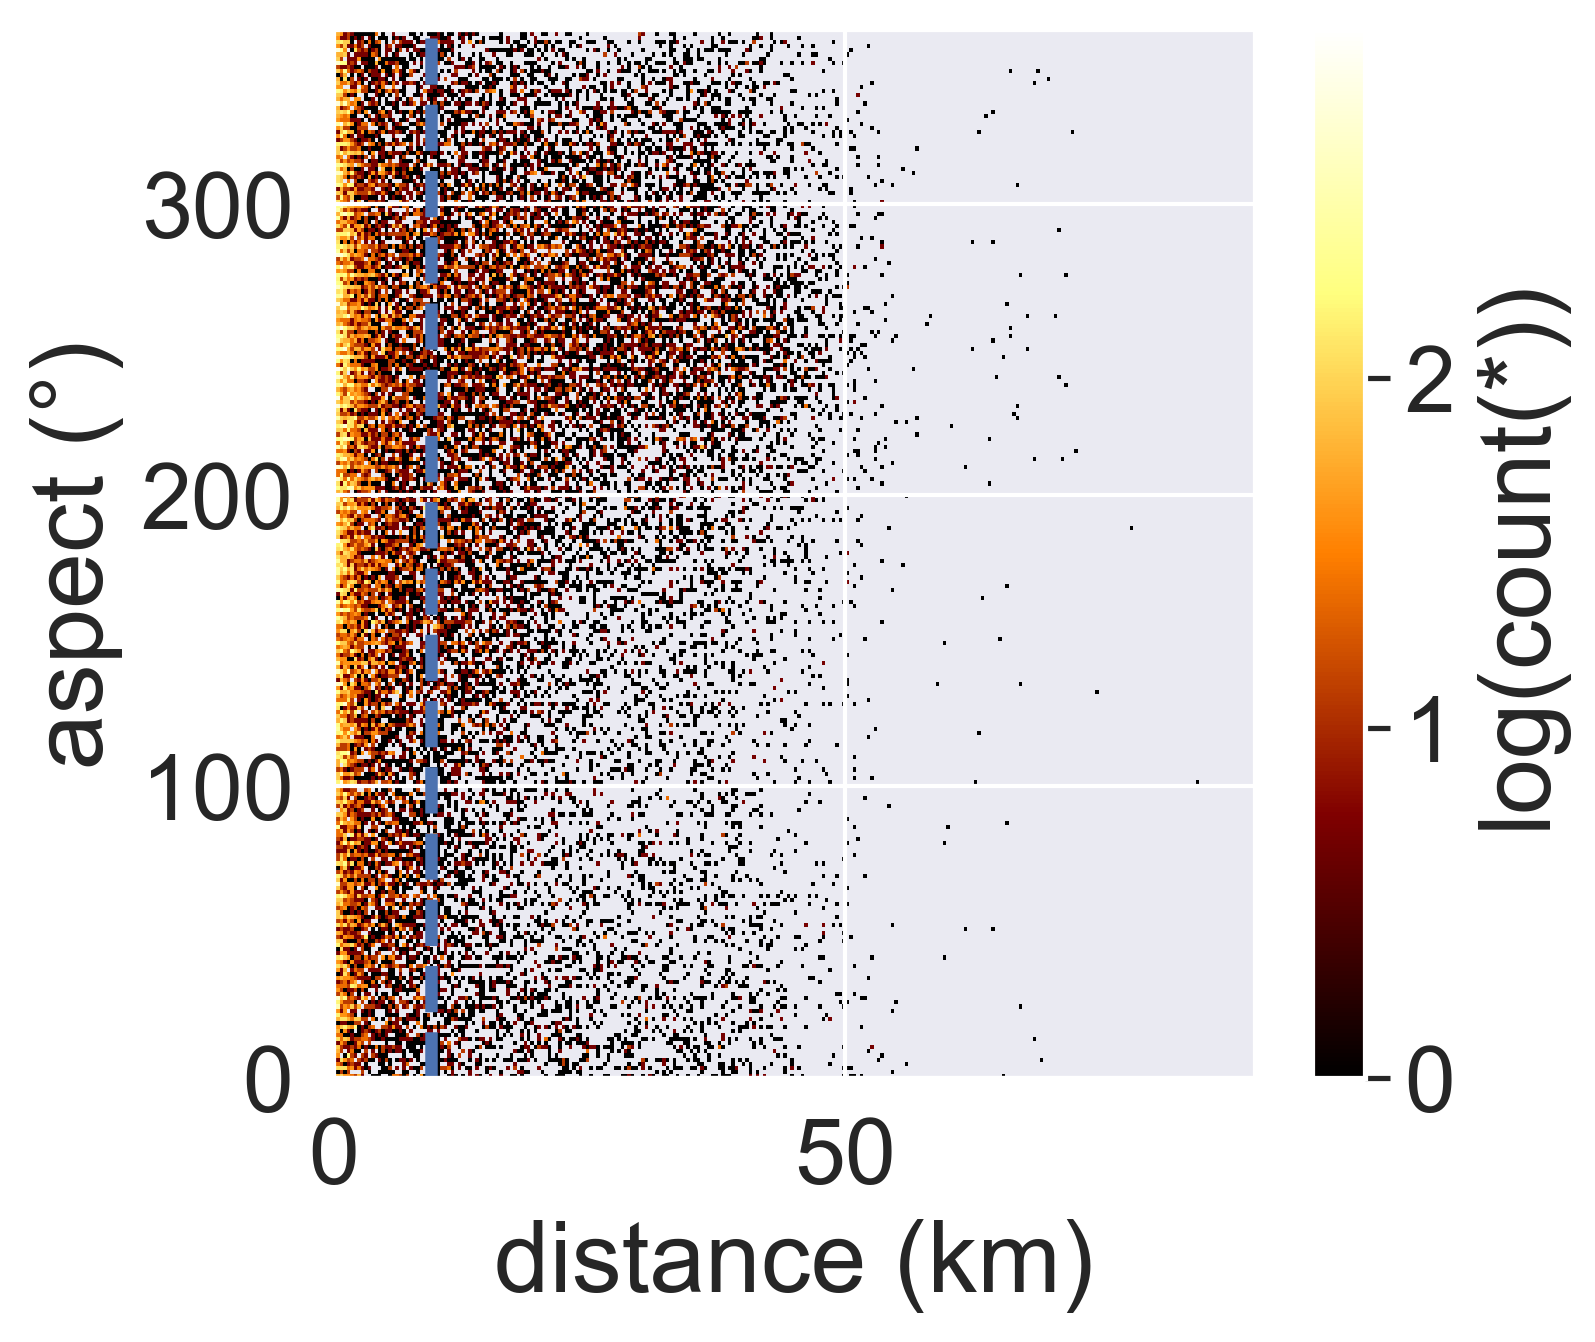
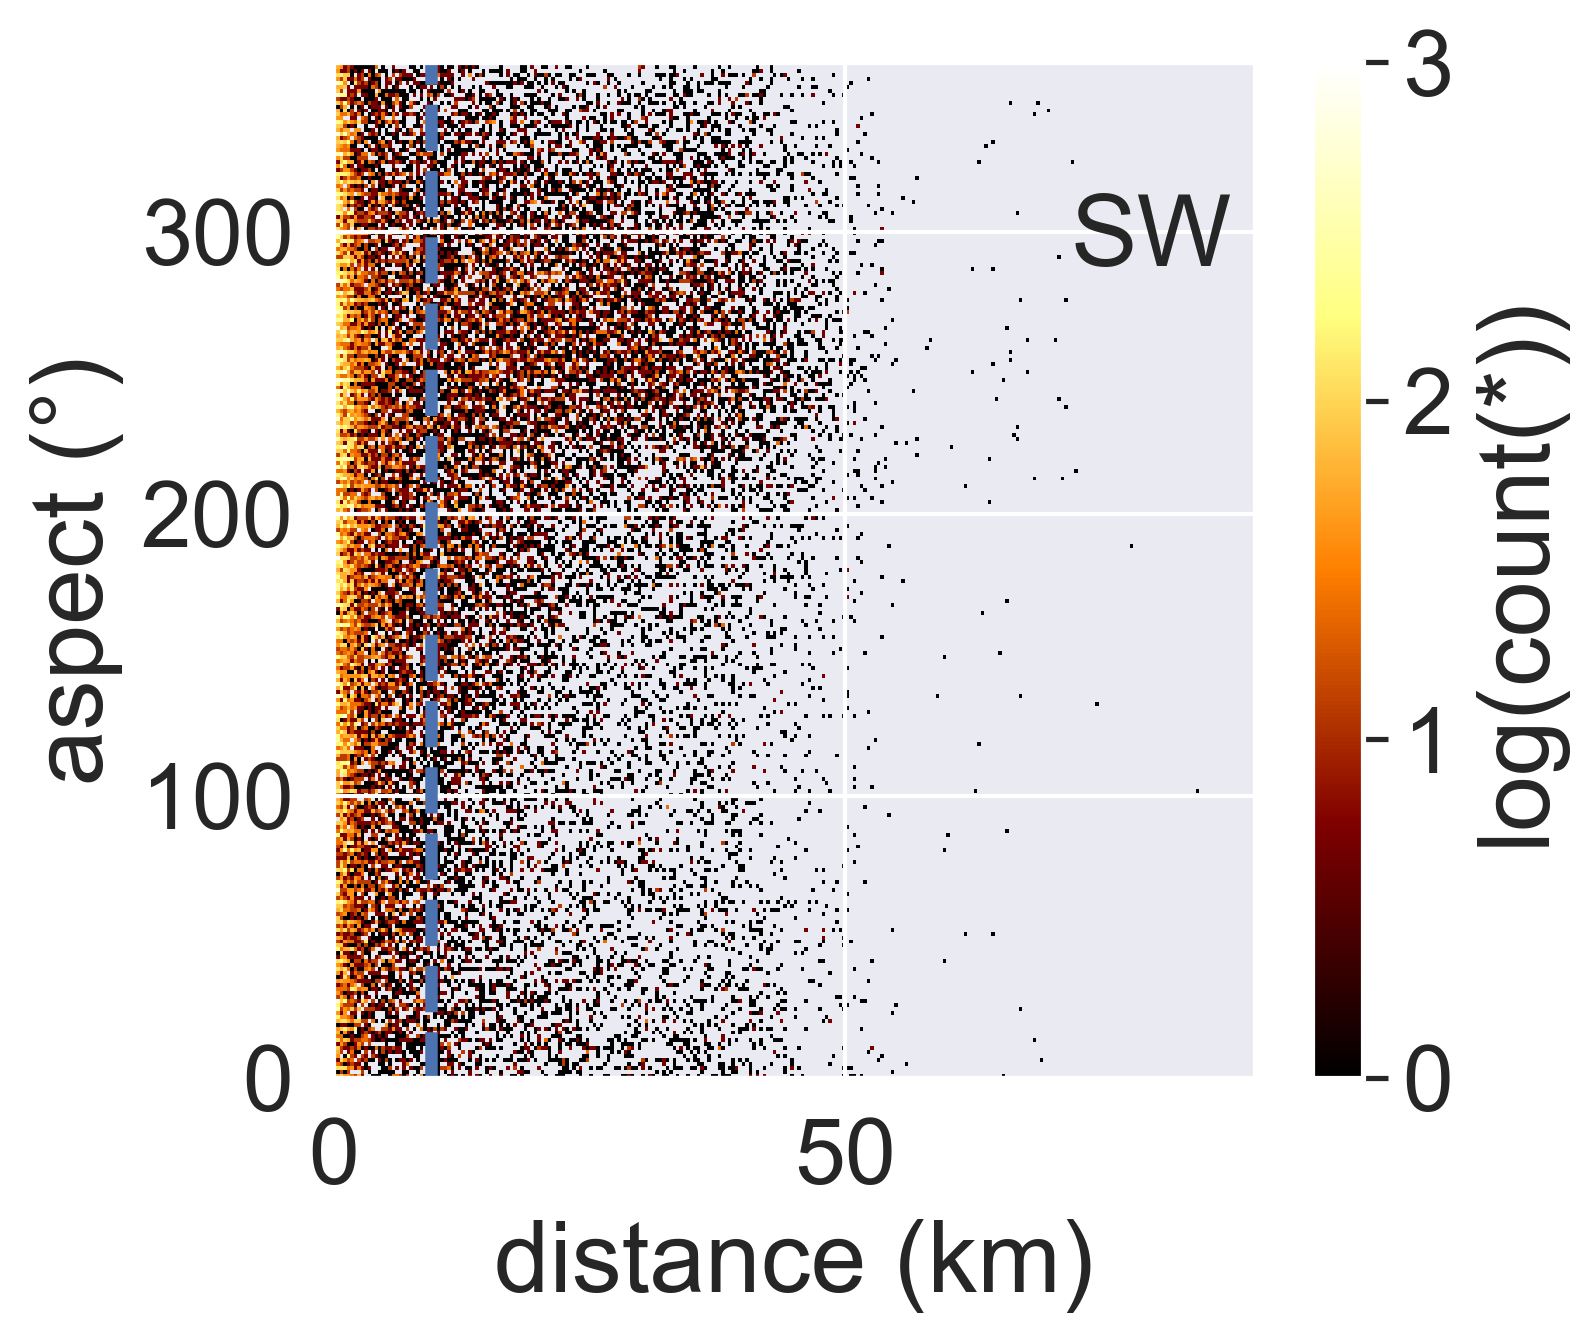
dark ice distance fig

diff --git a/topoanalysis.py b/topoanalysis.py
@@ -160,50 +160,6 @@ fig.savefig("print/basin/box_dura.png", dpi=300, bbox_inches="tight")
 
 
 #%%
-# '''
-# play with dark ice at SW
-# '''
-# df = pd.read_csv("/data/shunan/data/topography/basin/SW_annual.csv")
-# df["distance"] = df.dist/1000
-
-# df = df[df.albedo < 0.45]
-# df["tan"] = df.elevation / df.dist
-# df["arctan"] = np.rad2deg(np.arctan2(df.elevation, df.dist))
-
-# dfvx = vx.from_pandas(df)
-
-# fig, ax = plt.subplots(figsize=(6,5))
-# # ax.annotate("SW", xy=(0.8, 0.8),  xycoords='axes fraction')
-# ax.axvline(9.57041446875, ls='--', linewidth=3)
-# # ax.axhline(673.3710066, ls='--', linewidth=3)
-# plt.xlim(0,90)
-# plt.ylim(0,90)
-# dfvx.viz.heatmap('distance', 'slope', what=np.log(vx.stat.count()), show=True,
-#                  vmin=0, vmax=6, xlabel="distance (km)", ylabel="slope (" + u'\N{DEGREE SIGN}' + ')' )
-# fig.savefig("print/basin/SW_dark_dist_slop.png", dpi=300, bbox_inches="tight")
-
-# fig, ax = plt.subplots(figsize=(6,5))
-# # ax.annotate("SW", xy=(0.8, 0.1),  xycoords='axes fraction')
-# ax.axvline(9.57041446875, ls='--', linewidth=3)
-# # ax.axhline(673.3710066, ls='--', linewidth=3)
-# plt.xlim(0,90)
-# plt.ylim(0,2000)
-# dfvx.viz.heatmap('distance', 'elevation', what=np.log(vx.stat.count()), show=True,
-#                  vmin=0, vmax=4, xlabel="distance (km)", ylabel="elevation (m a.s.l)")
-# fig.savefig("print/basin/SW_dark_dist_elev.png", dpi=300, bbox_inches="tight")
-
-
-# fig, ax = plt.subplots(figsize=(6,5))   
-# ax.axvline(9.57041446875, ls='--', linewidth=3)
-# # ax.annotate("SW", xy=(0.8, 0.8),  xycoords='axes fraction')
-# plt.xlim(0, 90)
-# plt.ylim(0, 360)
-# dfvx.viz.heatmap('distance', 'aspect', what=np.log(vx.stat.count()), show=True,
-#                   xlabel="distance (km)", ylabel="aspect (" + u'\N{DEGREE SIGN}' + ')')
-# fig.savefig("print/basin/SW_dark_dist_aspe.png", dpi=300, bbox_inches="tight")
-
-
-#%%
 '''
 ice at margin and inland comparison (SW)
 '''
@@ -234,29 +190,6 @@ ax[2].set(xlabel="aspect (" + u'\N{DEGREE SIGN}' + ')', ylabel="", yticklabels=[
 ax[2].get_legend().remove()
 ax[2].annotate("c)", xy=(-0.15, 0.9),  xycoords='axes fraction')
 fig.savefig("print/SW_classdist_box.pdf", dpi=300, bbox_inches="tight")
-
-#%%
-'''
-play with dark ice at SE
-'''
-df = pd.read_csv("/data/shunan/data/topography/basin/SE_annual.csv")
-df["distance"] = df.dist/1000
-
-df = df[df.albedo < 0.45]
-df["tan"] = df.elevation / df.dist
-df["arctan"] = np.rad2deg(np.arctan2(df.elevation, df.dist))
-
-dfvx = vx.from_pandas(df)
-
-fig, ax = plt.subplots(figsize=(6,5))
-# ax.annotate("SW", xy=(0.8, 0.1),  xycoords='axes fraction')
-# ax.axvline(9.57041446875, ls='--', linewidth=3)
-# ax.axhline(673.3710066, ls='--', linewidth=3)
-plt.xlim(0,90)
-plt.ylim(0,2000)
-dfvx.viz.heatmap('distance', 'elevation', what=np.log(vx.stat.count()), show=True,
-                 vmin=0, vmax=4, xlabel="distance (km)", ylabel="elevation (m a.s.l)")
-fig.savefig("print/basin/SE_dark_dist_elev.png", dpi=300, bbox_inches="tight")
 
 #%%
 '''
@@ -463,6 +396,95 @@ df.viz.histogram('swdem', label='SW')
 plt.legend()
 ax.set(xlabel="aspect (" + u'\N{DEGREE SIGN}' + ')')
 fig.savefig("print/aspehist.pdf", dpi=300, bbox_inches="tight")
+
+
+
+#%%
+'''
+play with dark ice at SW
+'''
+df = pd.read_csv("/data/shunan/data/topography/basin/SW_annual.csv")
+df["distance"] = df.dist/1000
+
+df = df[df.albedo < 0.45]
+df["tan"] = df.elevation / df.dist
+df["arctan"] = np.rad2deg(np.arctan2(df.elevation, df.dist))
+
+dfvx = vx.from_pandas(df)
+
+fig, ax = plt.subplots(figsize=(6,5))
+ax.annotate("SW", xy=(0.8, 0.8),  xycoords='axes fraction')
+ax.axvline(9.57041446875, ls='--', linewidth=3)
+# ax.axhline(673.3710066, ls='--', linewidth=3)
+plt.xlim(0,90)
+plt.ylim(0,90)
+dfvx.viz.heatmap('distance', 'slope', what=np.log(vx.stat.count()), show=True,
+                 vmin=0, vmax=6, xlabel="distance (km)", ylabel="slope (" + u'\N{DEGREE SIGN}' + ')' )
+fig.savefig("print/basin/SW_dark_dist_slop.png", dpi=300, bbox_inches="tight")
+
+fig, ax = plt.subplots(figsize=(6,5))
+ax.annotate("SW", xy=(0.8, 0.1),  xycoords='axes fraction')
+ax.axvline(9.57041446875, ls='--', linewidth=3)
+# ax.axhline(673.3710066, ls='--', linewidth=3)
+plt.xlim(0,90)
+plt.ylim(0,2000)
+dfvx.viz.heatmap('distance', 'elevation', what=np.log(vx.stat.count()), show=True,
+                 vmin=0, vmax=4, xlabel="distance (km)", ylabel="elevation (m a.s.l)")
+fig.savefig("print/basin/SW_dark_dist_elev.png", dpi=300, bbox_inches="tight")
+
+
+fig, ax = plt.subplots(figsize=(6,5))   
+ax.axvline(9.57041446875, ls='--', linewidth=3)
+ax.annotate("SW", xy=(0.8, 0.8),  xycoords='axes fraction')
+plt.xlim(0, 90)
+plt.ylim(0, 360)
+dfvx.viz.heatmap('distance', 'aspect', what=np.log(vx.stat.count()), show=True,
+                  vmin=0, vmax=3, xlabel="distance (km)", ylabel="aspect (" + u'\N{DEGREE SIGN}' + ')')
+fig.savefig("print/basin/SW_dark_dist_aspe.png", dpi=300, bbox_inches="tight")
+
+#%%
+'''
+play with dark ice at SE
+'''
+df = pd.read_csv("/data/shunan/data/topography/basin/SE_annual.csv")
+df["distance"] = df.dist/1000
+
+df = df[df.albedo < 0.45]
+df["tan"] = df.elevation / df.dist
+df["arctan"] = np.rad2deg(np.arctan2(df.elevation, df.dist))
+
+dfvx = vx.from_pandas(df)
+
+fig, ax = plt.subplots(figsize=(6,5))
+ax.annotate("SE", xy=(0.8, 0.8),  xycoords='axes fraction')
+ax.axvline(2.63818006441, ls='--', linewidth=3)
+# ax.axhline(673.3710066, ls='--', linewidth=3)
+plt.xlim(0,90)
+plt.ylim(0,90)
+dfvx.viz.heatmap('distance', 'slope', what=np.log(vx.stat.count()), show=True,
+                 vmin=0, vmax=6, xlabel="distance (km)", ylabel="slope (" + u'\N{DEGREE SIGN}' + ')' )
+fig.savefig("print/basin/SE_dark_dist_slop.png", dpi=300, bbox_inches="tight")
+
+fig, ax = plt.subplots(figsize=(6,5))
+ax.annotate("SE", xy=(0.8, 0.1),  xycoords='axes fraction')
+ax.axvline(2.63818006441, ls='--', linewidth=3)
+# ax.axhline(673.3710066, ls='--', linewidth=3)
+plt.xlim(0,90)
+plt.ylim(0,2000)
+dfvx.viz.heatmap('distance', 'elevation', what=np.log(vx.stat.count()), show=True,
+                 vmin=0, vmax=4, xlabel="distance (km)", ylabel="elevation (m a.s.l)")
+fig.savefig("print/basin/SE_dark_dist_elev.png", dpi=300, bbox_inches="tight")
+
+
+fig, ax = plt.subplots(figsize=(6,5))   
+ax.axvline(2.63818006441, ls='--', linewidth=3)
+ax.annotate("SE", xy=(0.8, 0.8),  xycoords='axes fraction')
+plt.xlim(0, 90)
+plt.ylim(0, 360)
+dfvx.viz.heatmap('distance', 'aspect', what=np.log(vx.stat.count()), show=True,
+                  vmin=0, vmax=3, xlabel="distance (km)", ylabel="aspect (" + u'\N{DEGREE SIGN}' + ')')
+fig.savefig("print/basin/SE_dark_dist_aspe.png", dpi=300, bbox_inches="tight")
+
 #%%
 # fig, ax = plt.subplots(figsize=(6,5))
 # # ax.annotate("SW", xy=(0.8, 0.1),  xycoords='axes fraction')
